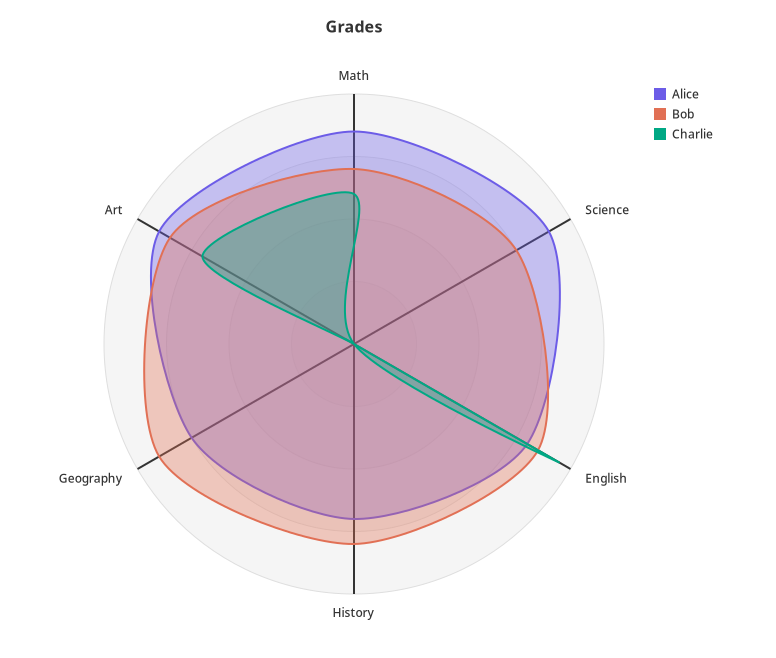
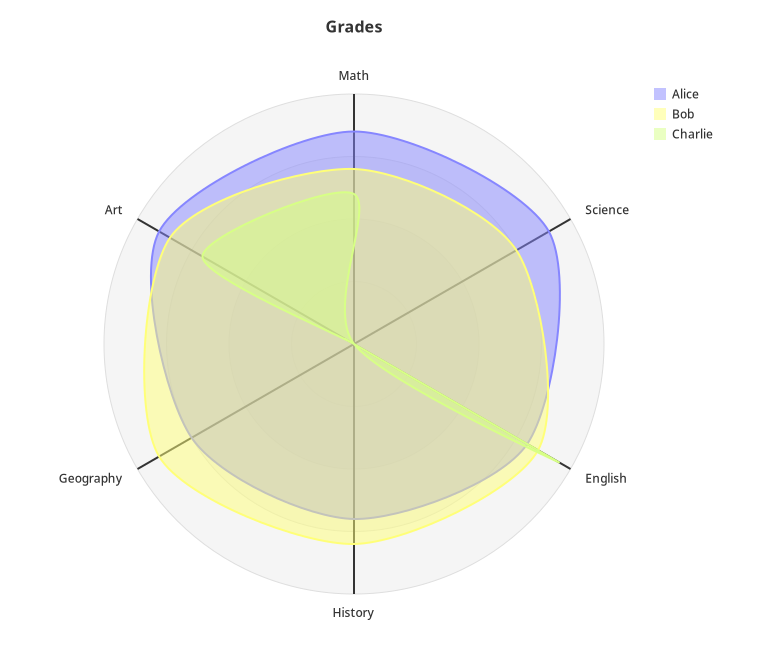
README fidelity update; refreshed samples and side-by-sides

diff --git a/README.md b/README.md
@@ -53,15 +53,27 @@ API (`include/cmermaid.h`): `cmm_render_svg(n, src, opts, &buf, &err)`, `cmm_buf
 ## Fidelity vs mermaid-cli 11.17
 
 Side-by-side renders (left: cmermaid, right: mermaid 11.17) live in `samples/sbs/*.png`.
-Already fixed: C4 grid and person shape, gitGraph lane order, packet title position, requirement label plates.
+Already fixed:
+- C4: grid layout, person shape, centred boundary titles, relation labels placed to avoid boxes and other labels;
+- gitGraph: lane order, vivid palette, commit labels rotated -45 degrees;
+- treemap and radar: cScale palettes;
+- gantt: excluded days/weekends shaded, light grid;
+- kanban: mermaid column/card widths;
+- mindmap: compacted with a spring relaxation;
+- pie: declaration order and palette;
+- timeline: cScale section colours;
+- sequence: participant `@{type}` shapes;
+- packet: title position;
+- requirement: label plates.
+
 Known remaining differences:
-- mindmap: mermaid's layout is more compact;
-- treemap: mermaid uses a pastel palette per section;
-- gantt: mermaid shades weekends and draws vertical grid lines;
-- gitGraph: mermaid uses its vivid default palette and rotated commit labels;
-- kanban: mermaid uses narrower columns;
-- radar: the palettes differ;
-- C4: mermaid accepts arbitrary bgColor strings, which cmermaid rejects.
+- mindmap: section colours, and the layout is still not cose-bilkent;
+- gantt: mermaid draws denser ticks;
+- state: concurrent regions are not drawn as grey boxes;
+- class: wide single-row layout, same as mermaid's;
+- journey: legend order;
+- quadrant: mermaid 11.17 renders points with a broken `hsl(NaN)` fill, so cmermaid keeps blue;
+- C4: arbitrary bgColor strings are rejected.
 mermaid itself fails to render `block_full` and `radar_full` (partial named curve).
 
 ## Flowchart features (v2)
